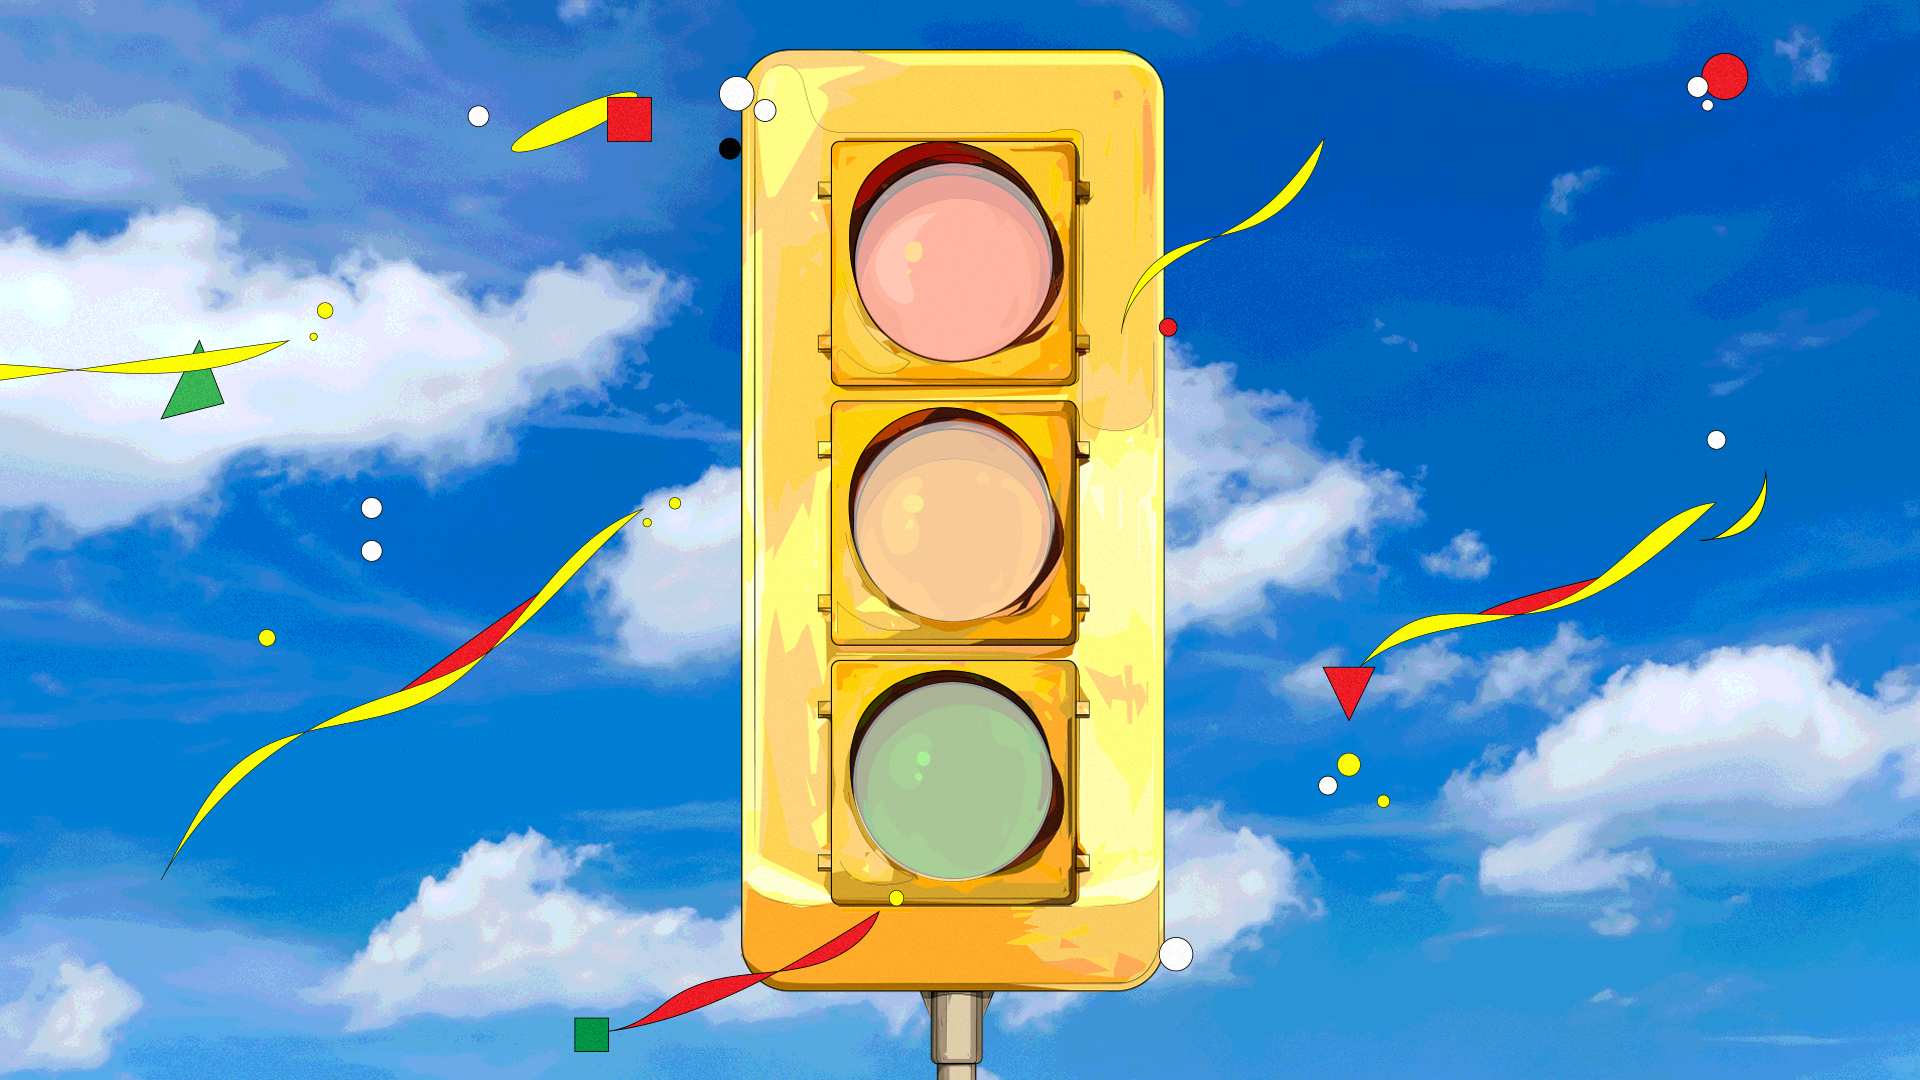
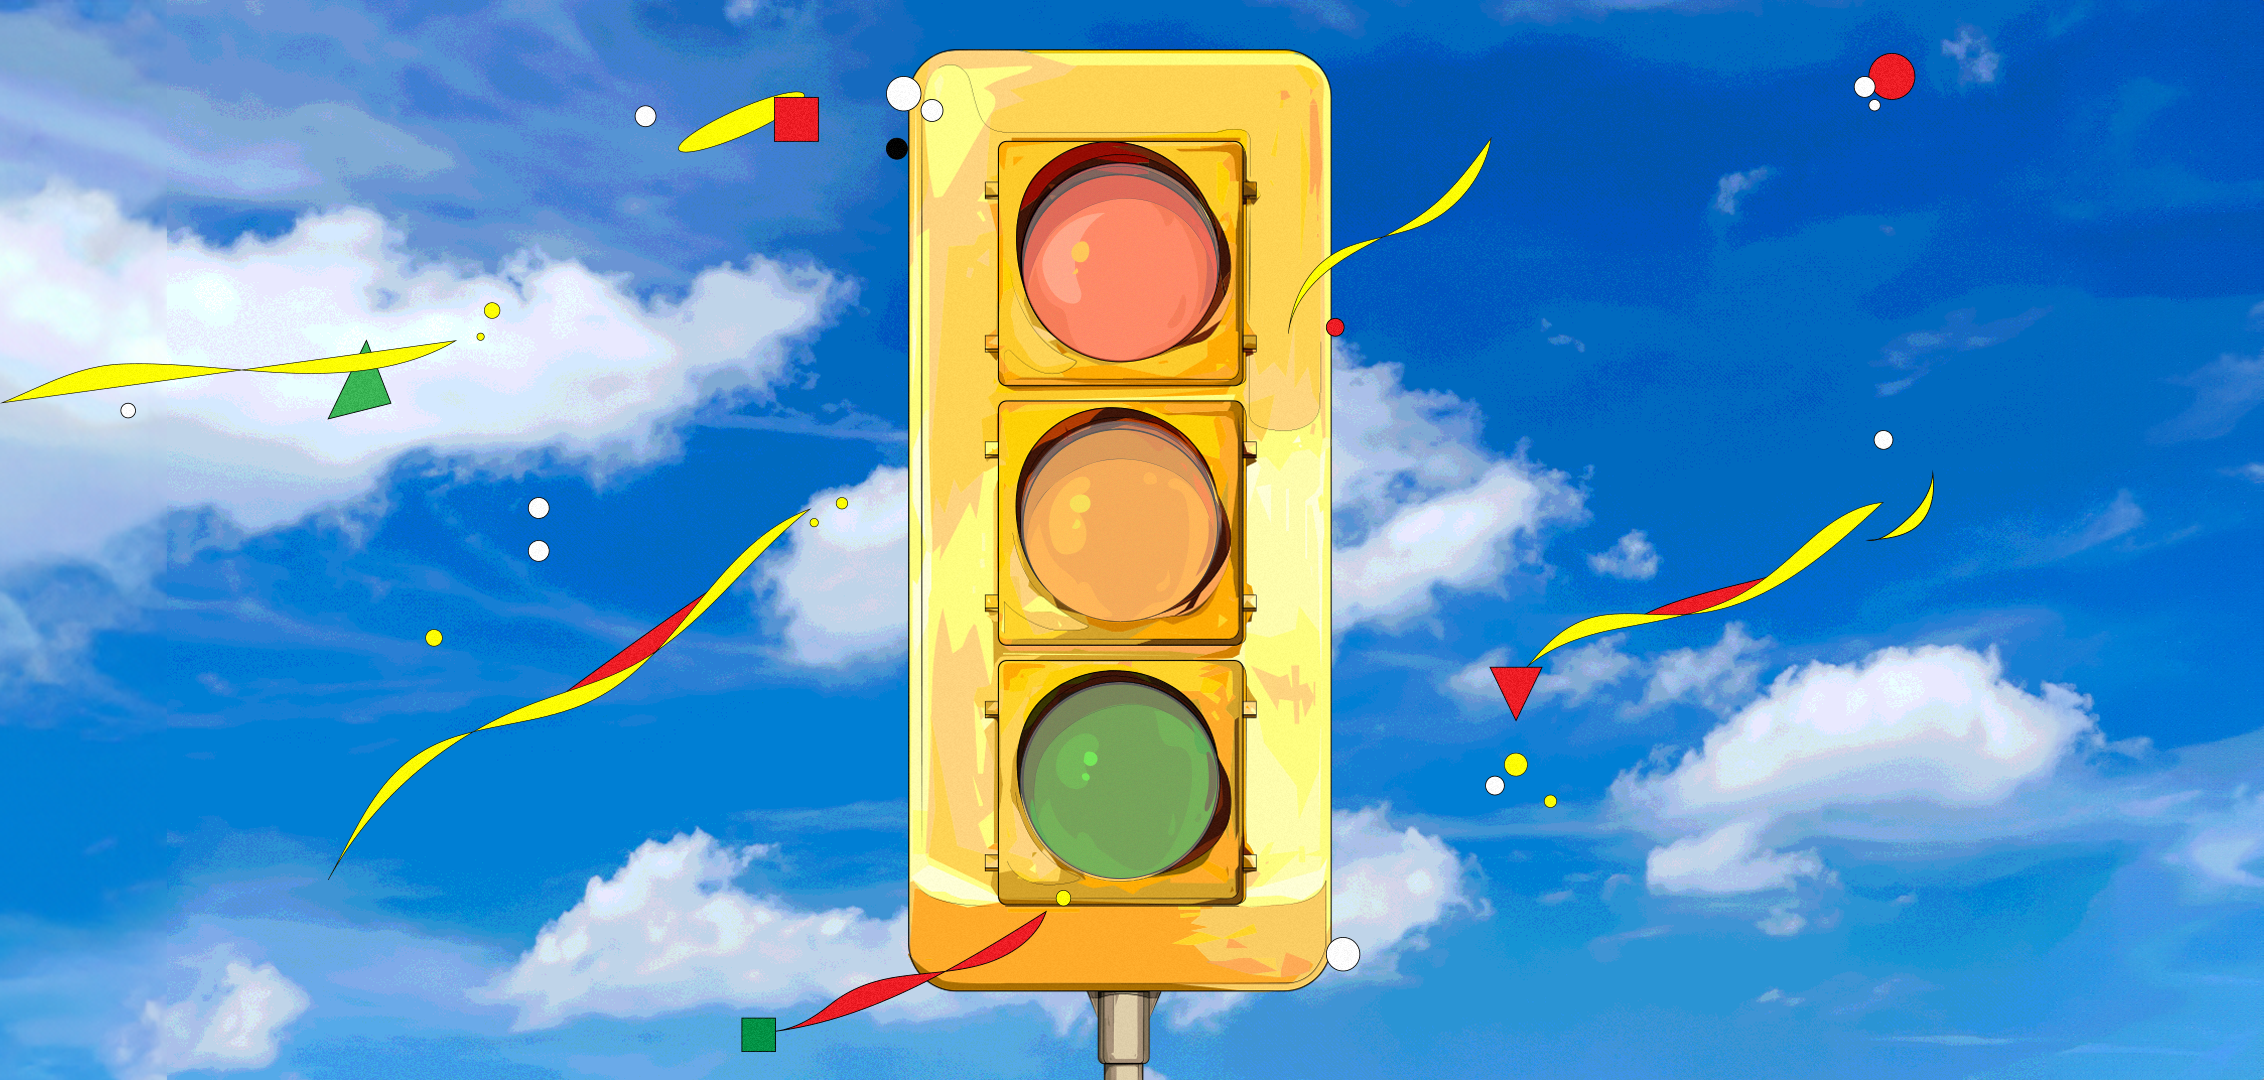
feat: exercise completed

diff --git a/src/styles/index.css b/src/styles/index.css
@@ -20,69 +20,69 @@
 .myBg{
 position: fixed;
 top: 0;
+height: 100%;
   background-position: center center;
   z-index: 1;
-  width: 100%;
 }
 
   .red {
-   margin-top: 6%;
-    height: 13vw;
-    width: 13vw;
+   margin-top: 10vh;
+    height: 25vh;
+    width: 200px;
     border-radius: 50%;
     z-index: 2;
   }
   .r-light {
-    margin-top: -11%;
+    margin-top: -35vh;
     background-color: rgb(235, 4, 4);
-    height: 13vw;
-    width: 13vw;
+    height: 35vh;
+    width: 100%;
     z-index: -1;
   }
   .r-dark {
-    margin-top: -11%;
+   margin-top: -35vh;
     background-color: rgb(0, 0, 0);
-    height: 13vw;
-    width: 13vw;
+    height: 35vh;
+    width: 35vh;
     border-radius: 50%;
     z-index: -1;
   }
   .orange {
-    height: 13vw;
-    width: 13vw;
+    height: 25vh;
+    width: 200px;
     z-index: 2;
   }
   .o-light {
-    margin-top: -13%;
-    height: 13vw;
-    width: 13vw;
+    margin-top: -24vh;
+    height: 25vh;
+    width: 100%;
     z-index: -1;
     background-color: rgb(255, 136, 0);
   }
   .o-dark {
-    margin-top: -13%;
-    height: 13vw;
-    width: 13vw;
+    margin-top: -24vh;
+    height: 25vh;
+    width: 100%;
     z-index: -1;
     background-color: rgb(0, 0, 0);
   }
   
   .green {
-    height: 13vw;
-    width: 13vw;
+    height: 25vh;
+    width: 200px;
    z-index: 2;
   }
   .g-light {
-    margin-top: -13%;
-    height: 13vw;
-    width: 13vw;
+    margin-top: -24vh;
+    height: 25vh;
+    width: 100%;
     z-index: -1;
     background-color: green;
   }
   .g-dark {
-    margin-top: -13%;
-    height: 13vw;
-    width: 13vw;
+    margin-top: -24vh;
+    height: 25vh;
+    width: 100%;
     z-index: -1;
     background-color: rgb(0, 0, 0);
   }
